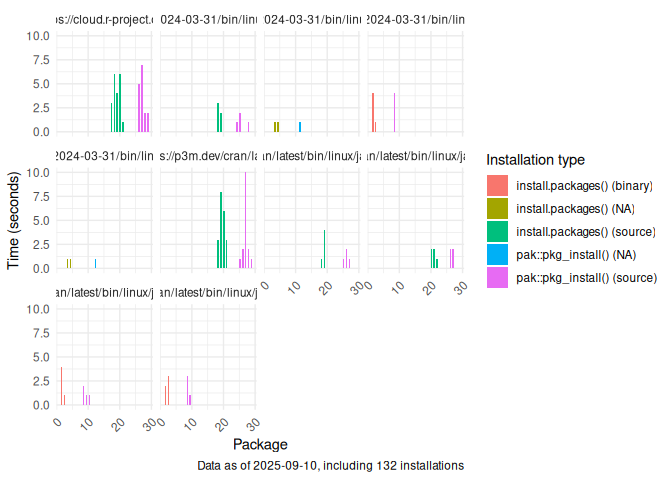
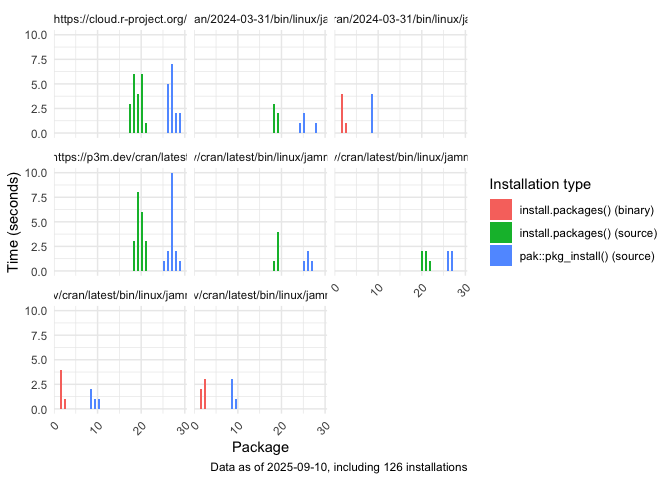
Updating notes on pak

diff --git a/README.md b/README.md
@@ -13,35 +13,33 @@ and saves the output as csv files under [data](./data).
 
 ## Preliminary analysis
 
-The following table shows the distribution of the installations so far:
+As of 2025-09-10, the following tables show the distribution of the
+successful installations by method and source of the installed package
+(total: 126 successful installations vs 6 failed installations):
 
-|                                                             |  NA | source |
-|:------------------------------------------------------------|----:|-------:|
-| https://cloud.r-project.org/                                |   0 |     16 |
-| https://p3m.dev/cran/2024-03-31/bin/linux/jammy-aarch64/4.4 |   0 |      4 |
-| https://p3m.dev/cran/2024-03-31/bin/linux/jammy-aarch64/4.5 |   1 |      0 |
-| https://p3m.dev/cran/2024-03-31/bin/linux/jammy-x86_64/4.4  |   0 |      4 |
-| https://p3m.dev/cran/2024-03-31/bin/linux/jammy-x86_64/4.5  |   1 |      0 |
-| https://p3m.dev/cran/latest                                 |   0 |     16 |
-| https://p3m.dev/cran/latest/bin/linux/jammy-aarch64/4.4     |   0 |      4 |
-| https://p3m.dev/cran/latest/bin/linux/jammy-aarch64/4.5     |   0 |      4 |
-| https://p3m.dev/cran/latest/bin/linux/jammy-x86_64/4.4      |   0 |      4 |
-| https://p3m.dev/cran/latest/bin/linux/jammy-x86_64/4.5      |   0 |      4 |
+|                                                             | source |
+|:------------------------------------------------------------|-------:|
+| https://cloud.r-project.org/                                |     16 |
+| https://p3m.dev/cran/2024-03-31/bin/linux/jammy-aarch64/4.4 |      4 |
+| https://p3m.dev/cran/2024-03-31/bin/linux/jammy-x86_64/4.4  |      4 |
+| https://p3m.dev/cran/latest                                 |     16 |
+| https://p3m.dev/cran/latest/bin/linux/jammy-aarch64/4.4     |      4 |
+| https://p3m.dev/cran/latest/bin/linux/jammy-aarch64/4.5     |      4 |
+| https://p3m.dev/cran/latest/bin/linux/jammy-x86_64/4.4      |      4 |
+| https://p3m.dev/cran/latest/bin/linux/jammy-x86_64/4.5      |      4 |
 
 Using pak::pkg_install()
 
-|  | binary | NA | source |
-|:---|---:|---:|---:|
-| https://cloud.r-project.org/ | 0 | 0 | 20 |
-| https://p3m.dev/cran/2024-03-31/bin/linux/jammy-aarch64/4.4 | 0 | 0 | 5 |
-| https://p3m.dev/cran/2024-03-31/bin/linux/jammy-aarch64/4.5 | 0 | 2 | 0 |
-| https://p3m.dev/cran/2024-03-31/bin/linux/jammy-x86_64/4.4 | 5 | 0 | 0 |
-| https://p3m.dev/cran/2024-03-31/bin/linux/jammy-x86_64/4.5 | 0 | 2 | 0 |
-| https://p3m.dev/cran/latest | 0 | 0 | 20 |
-| https://p3m.dev/cran/latest/bin/linux/jammy-aarch64/4.4 | 0 | 0 | 5 |
-| https://p3m.dev/cran/latest/bin/linux/jammy-aarch64/4.5 | 0 | 0 | 5 |
-| https://p3m.dev/cran/latest/bin/linux/jammy-x86_64/4.4 | 5 | 0 | 0 |
-| https://p3m.dev/cran/latest/bin/linux/jammy-x86_64/4.5 | 5 | 0 | 0 |
+|                                                             | binary | source |
+|:------------------------------------------------------------|-------:|-------:|
+| https://cloud.r-project.org/                                |      0 |     20 |
+| https://p3m.dev/cran/2024-03-31/bin/linux/jammy-aarch64/4.4 |      0 |      5 |
+| https://p3m.dev/cran/2024-03-31/bin/linux/jammy-x86_64/4.4  |      5 |      0 |
+| https://p3m.dev/cran/latest                                 |      0 |     20 |
+| https://p3m.dev/cran/latest/bin/linux/jammy-aarch64/4.4     |      0 |      5 |
+| https://p3m.dev/cran/latest/bin/linux/jammy-aarch64/4.5     |      0 |      5 |
+| https://p3m.dev/cran/latest/bin/linux/jammy-x86_64/4.4      |      5 |      0 |
+| https://p3m.dev/cran/latest/bin/linux/jammy-x86_64/4.5      |      5 |      0 |
 
 Using install.packages()
 
@@ -67,7 +65,8 @@ Looking at using source vs binary installation:
 2.  Try to install the `data.table` package (needs compilation).
 3.  Print the installation output. Using that, check whether a source or
     a binary version was installed (check the regex
-    `installing [*]source[*]`)
+    `installing [*]source[*]` if it is `install.packages` or
+    `Building {}` if it is `pak::pkg_install`).
 4.  Record the installation time and any relevant system information.
     The filename is a hash of the file itself.
 5.  The output is stored as an artifact. Once all jobs are complete, the
